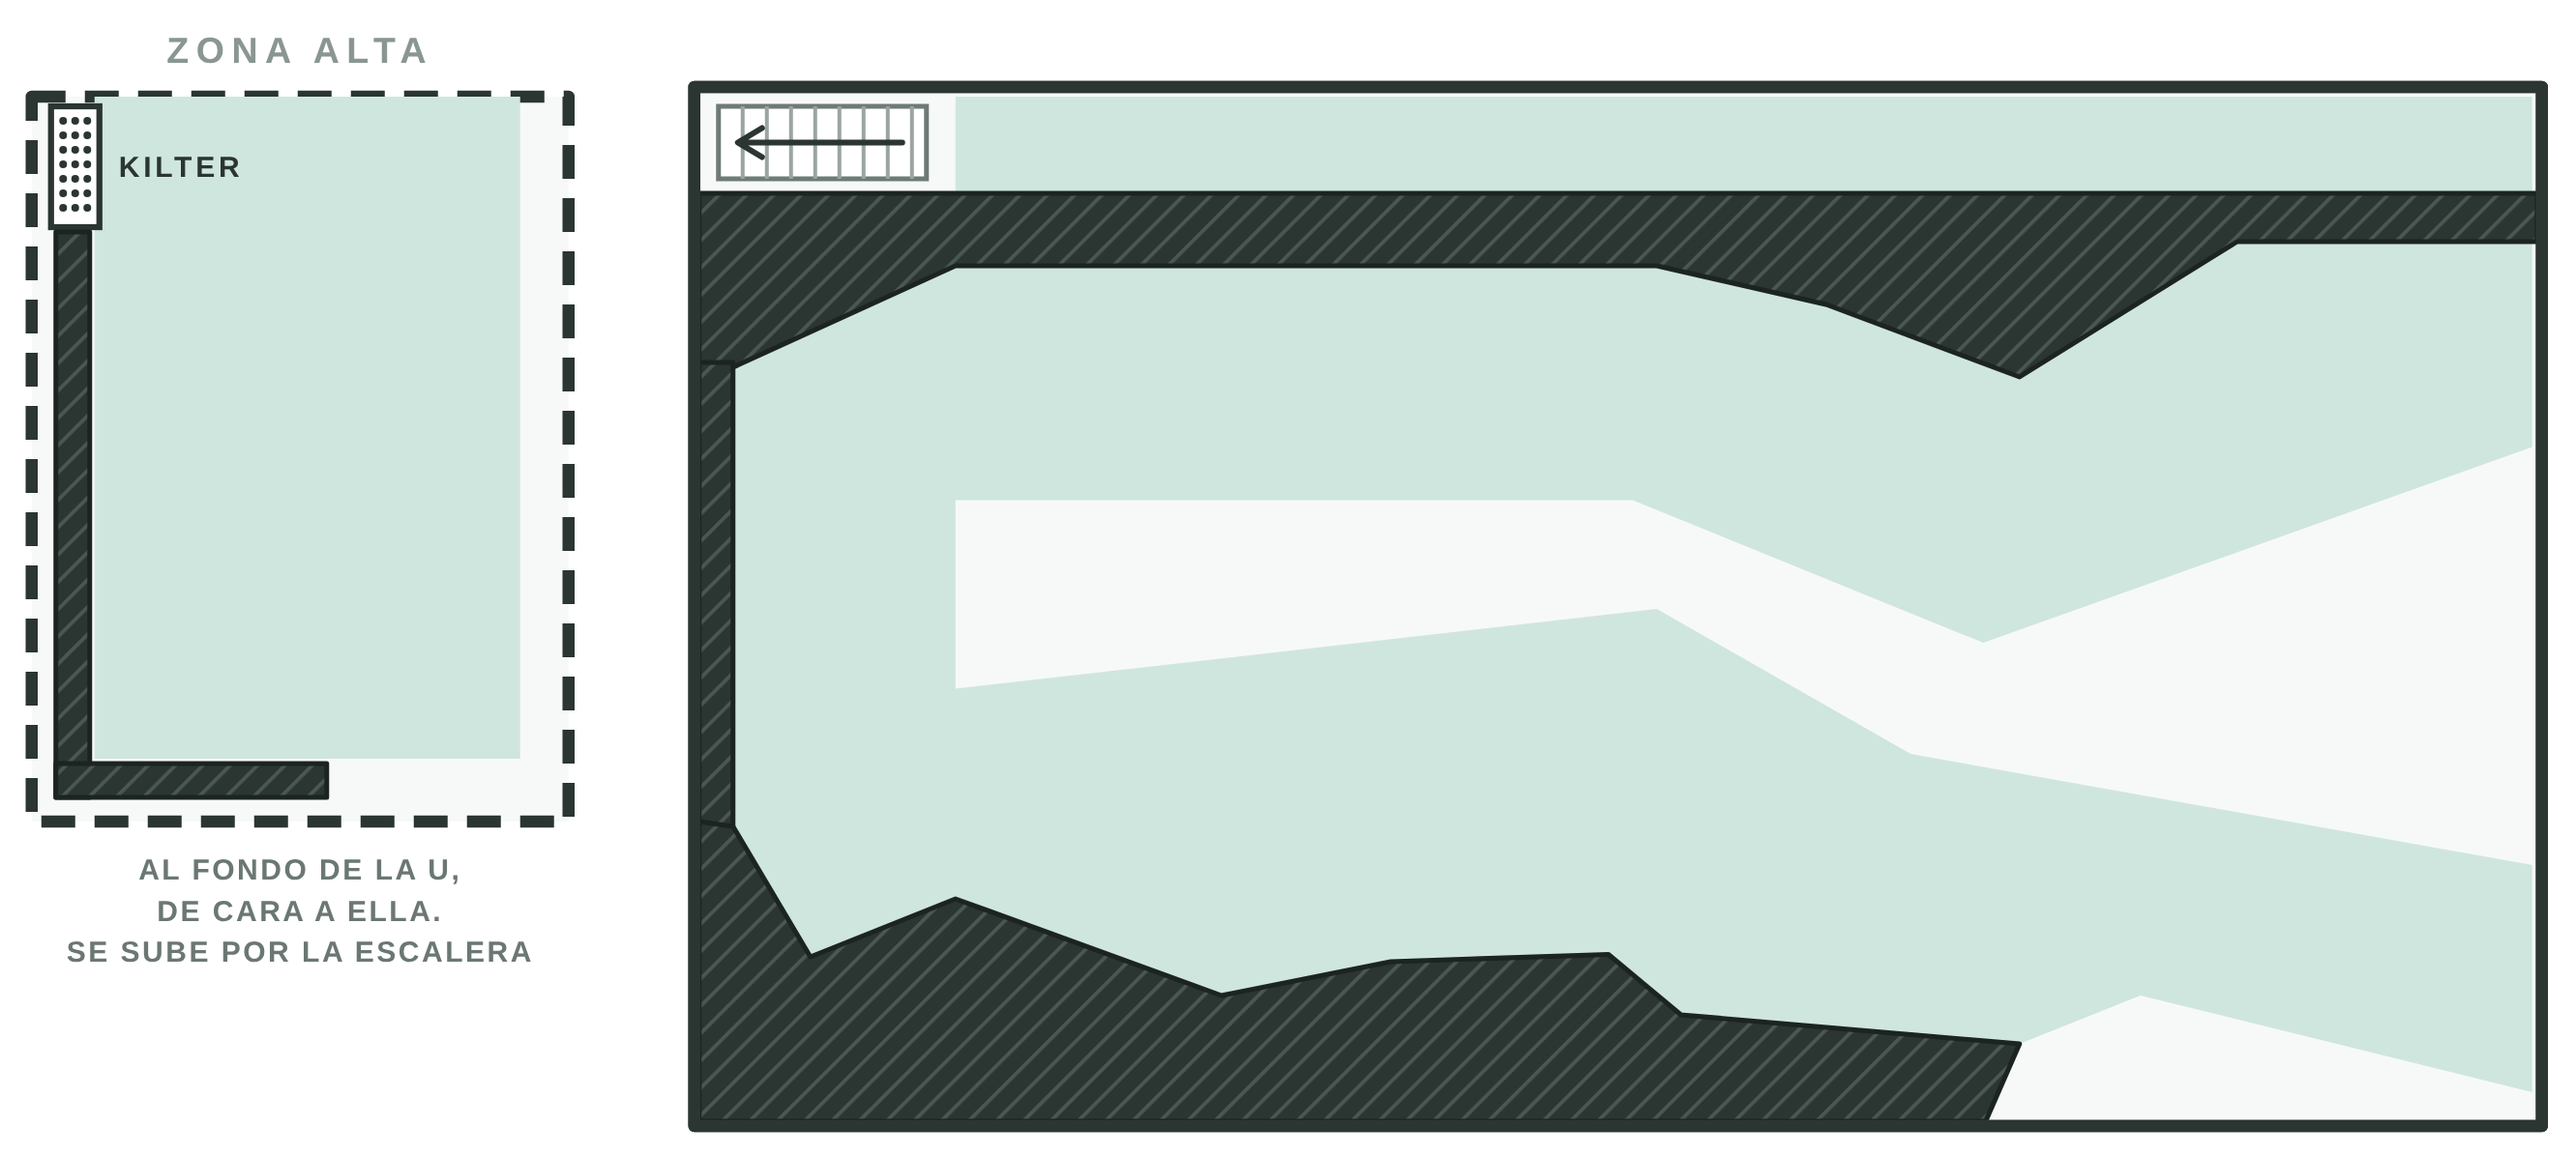
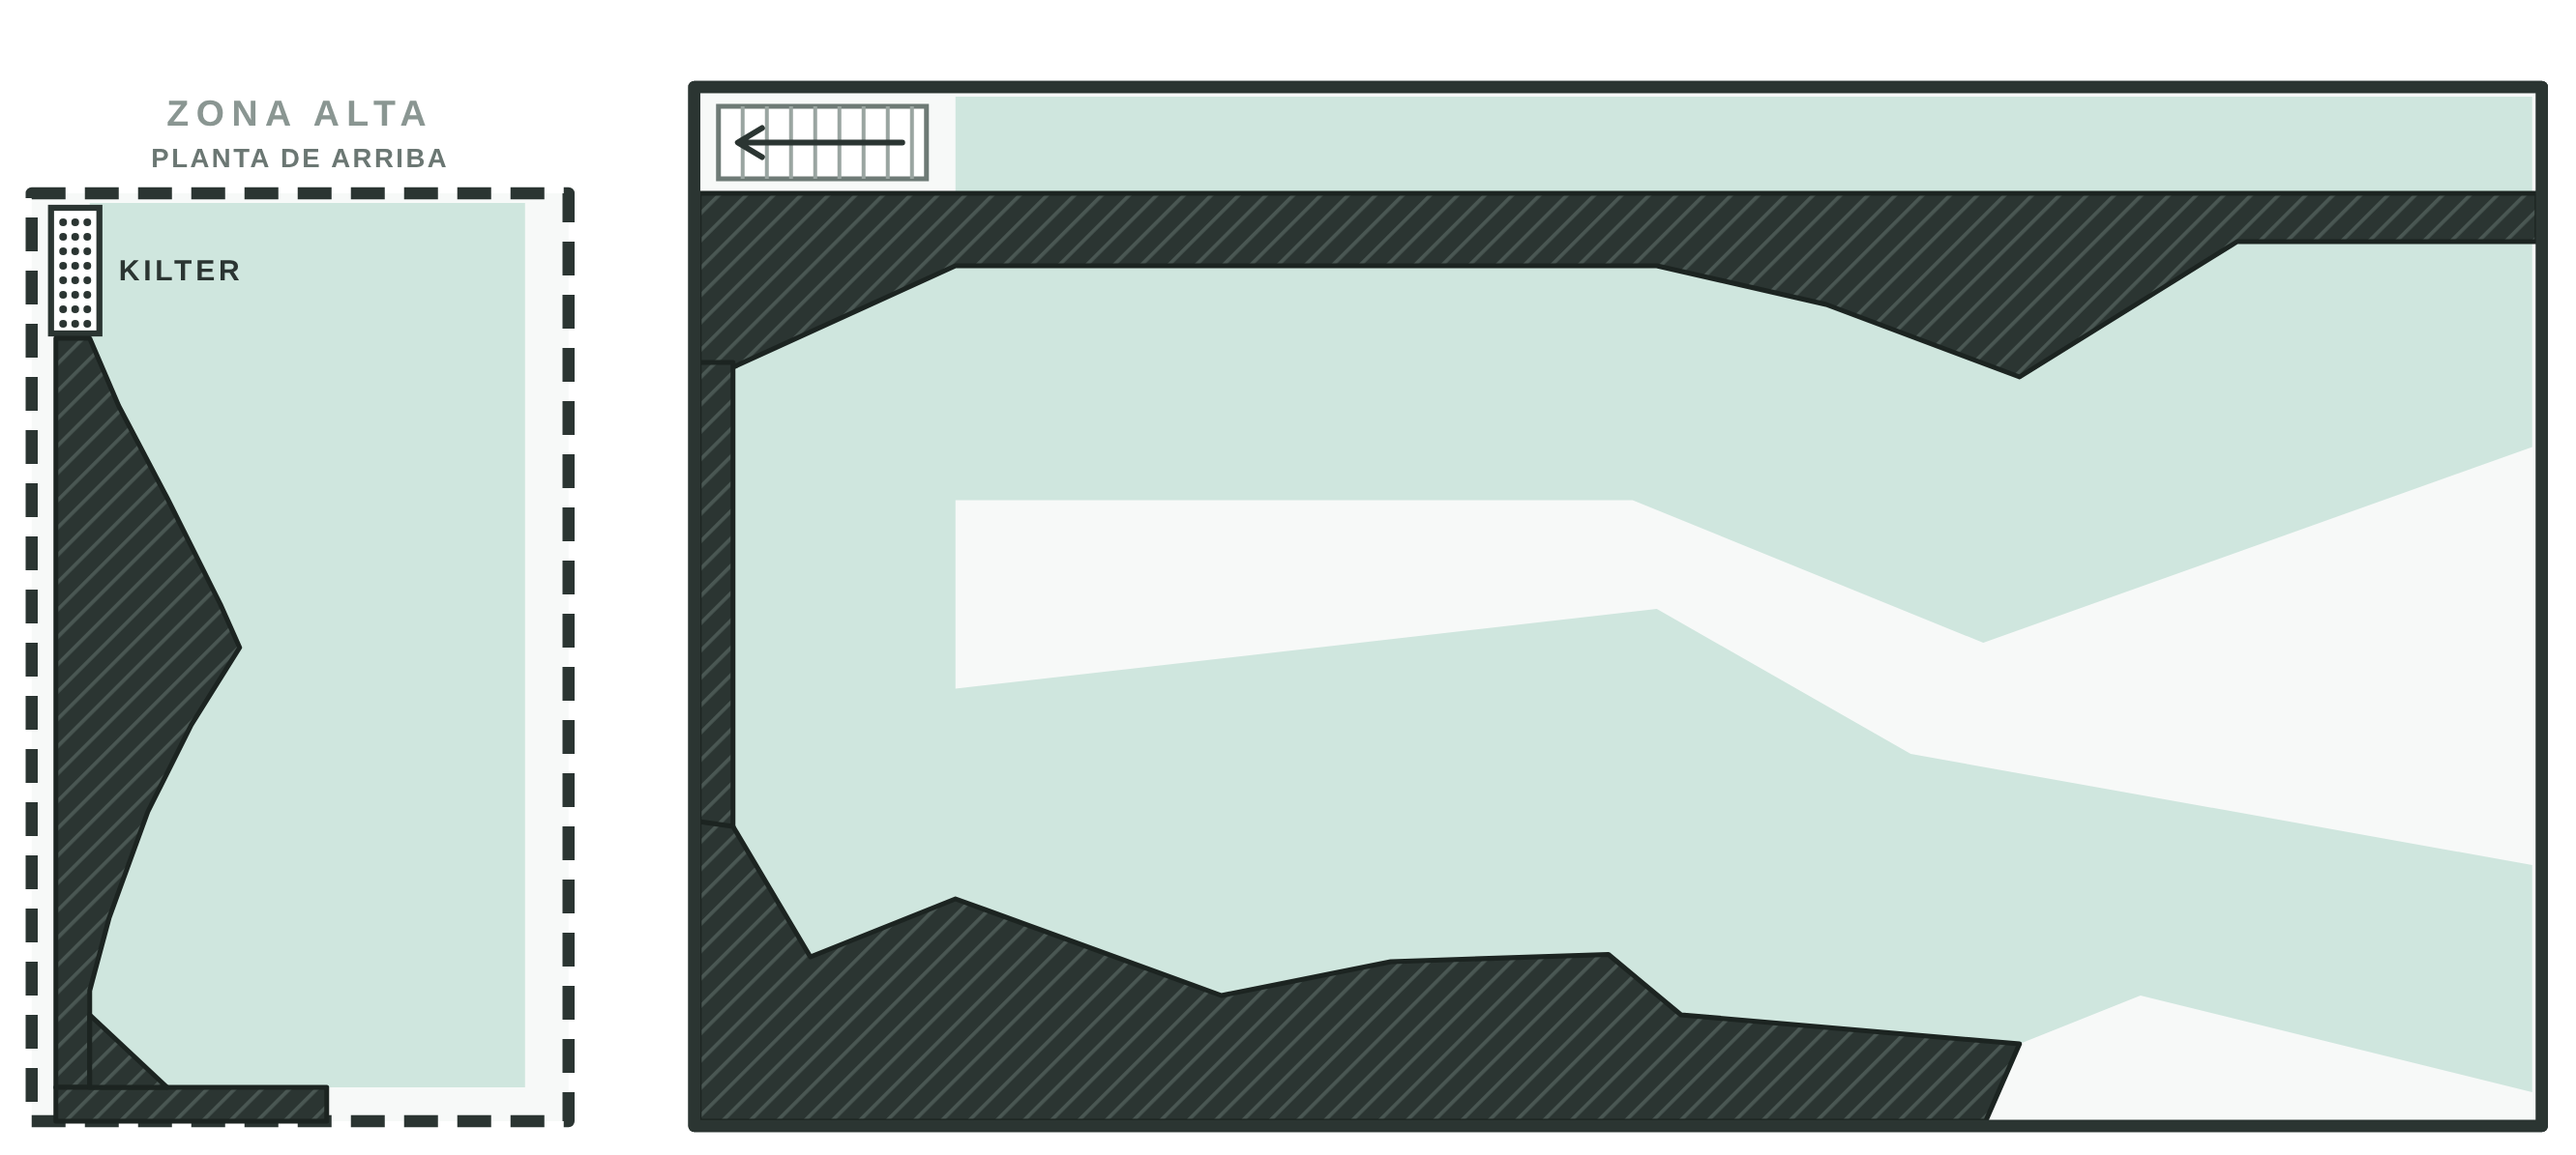
Plano de Benimaclet: zona alta del ancho de la U y muro con relieve
Claude-Session: https://claude.ai/code/session_01DAFZYU9jXZHpUX8tGfXKMs

Changed region(s): [[0.0, 0.031, 0.2493, 0.9908]]

diff --git a/mapas/natural-benimaclet.py b/mapas/natural-benimaclet.py
@@ -16,11 +16,12 @@ walls = {
   "fondo": [(14,150),(28,150),(28,342),(14,342)],
   "abajo": [(14,340),(28,342),(60,396),(120,372),(230,412),(300,398),(390,395),(420,420),(560,432),(546,464),(14,464)],
   # Zona alta: pared larga, tramo corto en esquina
-  "alta-larga": [(-252,96),(-238,96),(-238,330),(-252,330)],
-  "alta-corta": [(-252,316),(-140,316),(-140,330),(-252,330)],
+  "alta-larga": [(-252,140),(-238,140),(-226,168),(-206,206),(-184,250),(-176,268),(-196,300),(-214,336),(-230,380),(-238,410),(-238,450),(-252,450)],
+  "alta-corta": [(-252,450),(-140,450),(-140,464),(-252,464)],
+  "alta-esquina": [(-238,450),(-238,420),(-206,450)],
 }
-up = [(-262,40),(-40,40),(-40,340),(-262,340)]
-up_mat = [(-236,40),(-60,40),(-60,314),(-236,314)]
+up = [(-262,80),(-40,80),(-40,464),(-262,464)]
+up_mat = [(-238,84),(-58,84),(-58,450),(-238,450)]
 
 svg = f'''<svg xmlns="http://www.w3.org/2000/svg" viewBox="-275 0 1065 478" width="2663" height="1195">
 <defs>
@@ -36,16 +37,12 @@ svg = f'''<svg xmlns="http://www.w3.org/2000/svg" viewBox="-275 0 1065 478" widt
 <polygon points="{P(up)}" fill="#F7F9F8" stroke="#2B3532" stroke-width="5" stroke-dasharray="14 8" stroke-linejoin="round"/>
 <polygon points="{P(up_mat)}" fill="#CFE6DE"/>
 <g>
-  <rect x="-254" y="44" width="20" height="50" fill="#FFFFFF" stroke="#2B3532" stroke-width="2.5"/>
-  <g fill="#2B3532">{"".join(f'<circle cx="{x}" cy="{y}" r="1.6"/>' for x in (-249,-244,-239) for y in range(50, 92, 6))}</g>
-  <text x="-226" y="73" font-family="Helvetica, Arial, sans-serif" font-size="12" font-weight="800" fill="#2B3532" letter-spacing="1.5">KILTER</text>
+  <rect x="-254" y="86" width="20" height="52" fill="#FFFFFF" stroke="#2B3532" stroke-width="2.5"/>
+  <g fill="#2B3532">{"".join(f'<circle cx="{x}" cy="{y}" r="1.6"/>' for x in (-249,-244,-239) for y in range(92, 136, 6))}</g>
+  <text x="-226" y="116" font-family="Helvetica, Arial, sans-serif" font-size="12" font-weight="800" fill="#2B3532" letter-spacing="1.5">KILTER</text>
 </g>
-<text x="-151" y="26" font-family="Helvetica, Arial, sans-serif" font-size="15" font-weight="800" fill="#8A9692" letter-spacing="3" text-anchor="middle">ZONA ALTA</text>
-<g font-family="Helvetica, Arial, sans-serif" font-size="12" font-weight="700" fill="#6B7773" text-anchor="middle" letter-spacing="1">
-  <text x="-151" y="364">AL FONDO DE LA U,</text>
-  <text x="-151" y="381">DE CARA A ELLA.</text>
-  <text x="-151" y="398">SE SUBE POR LA ESCALERA</text>
-</g>
+<text x="-151" y="52" font-family="Helvetica, Arial, sans-serif" font-size="15" font-weight="800" fill="#8A9692" letter-spacing="3" text-anchor="middle">ZONA ALTA</text>
+<text x="-151" y="69" font-family="Helvetica, Arial, sans-serif" font-size="11" font-weight="700" fill="#6B7773" text-anchor="middle" letter-spacing="1">PLANTA DE ARRIBA</text>
 
 <!-- Escalera: en la esquina de arriba, junto a la cara exterior del brazo de arriba -->
 <rect x="22" y="44" width="86" height="30" fill="#FFFFFF" stroke="#6E7A76" stroke-width="2"/>
